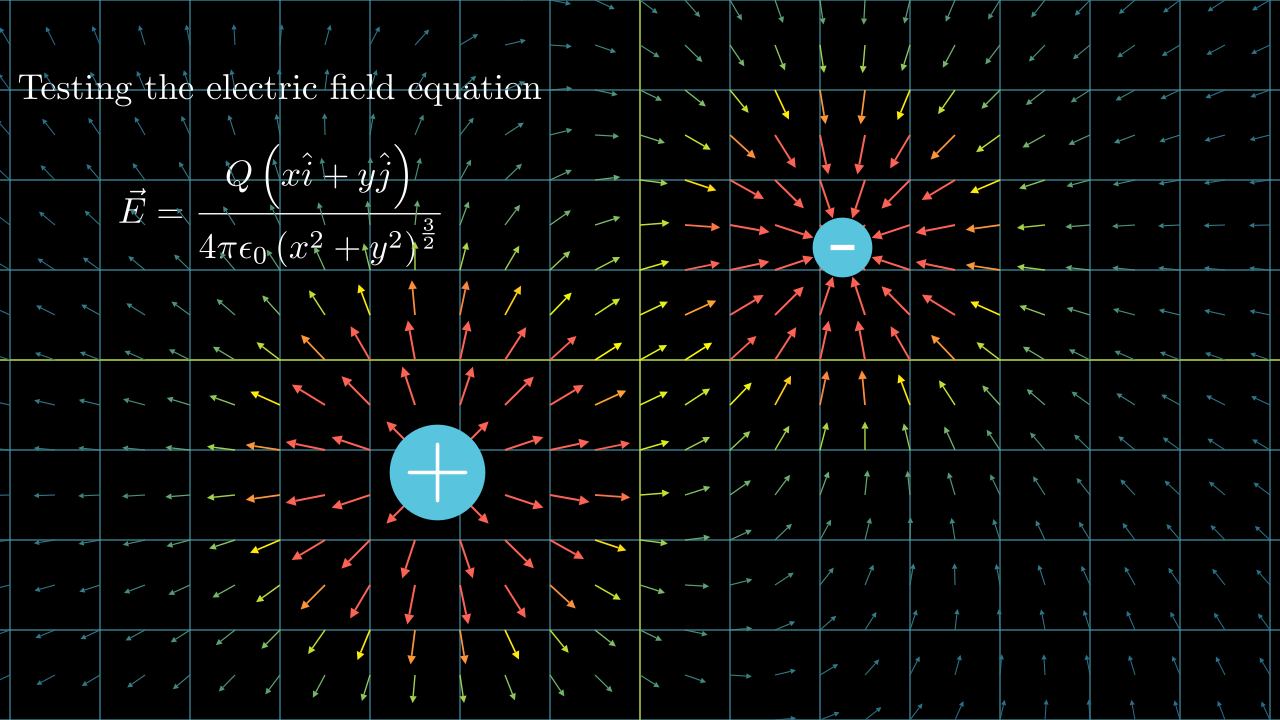
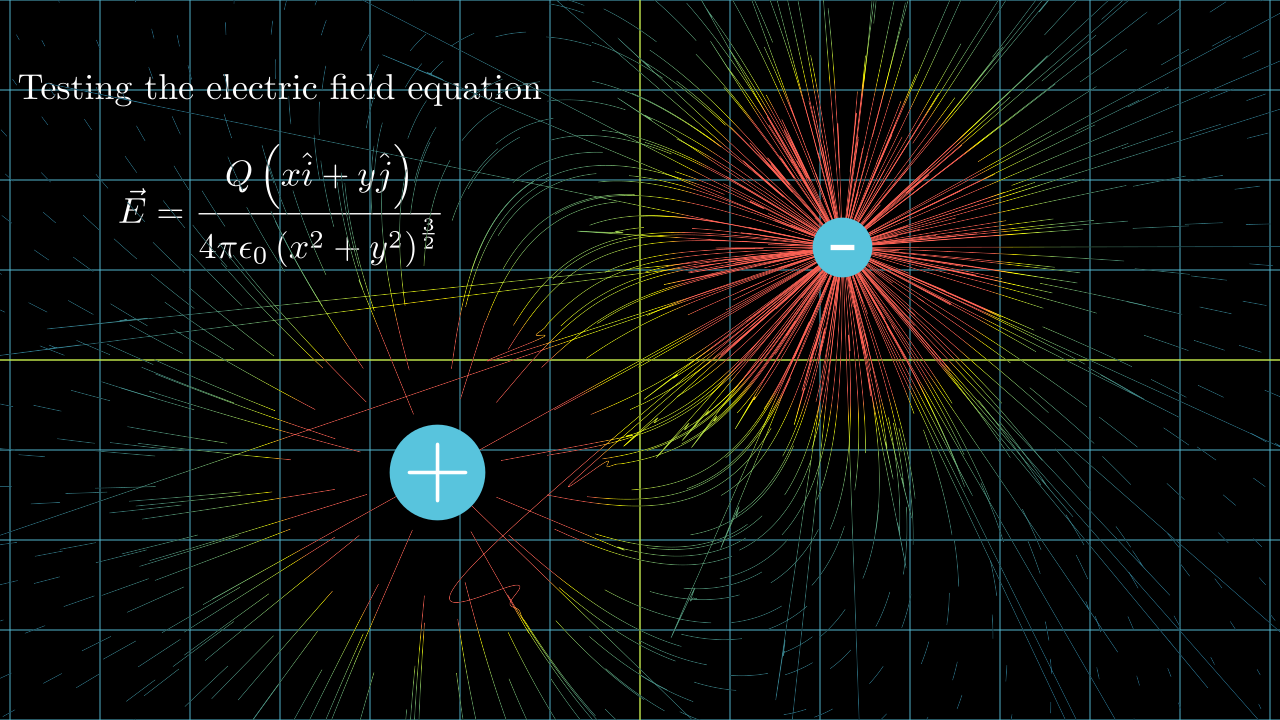
testing

diff --git a/manim_Killy/ElectricParticle.py b/manim_Killy/ElectricParticle.py
@@ -57,7 +57,7 @@ class ElectricParticle(Scene):
         
         # creates the arrows that indicate direction
         # and magnitude of electric Feild
-        mob=ArrowVectorField(SlopeMul)
+        mob=StreamLines(SlopeMul,padding=3)
         self.add(mob)
         
         #adds Proton To Image
